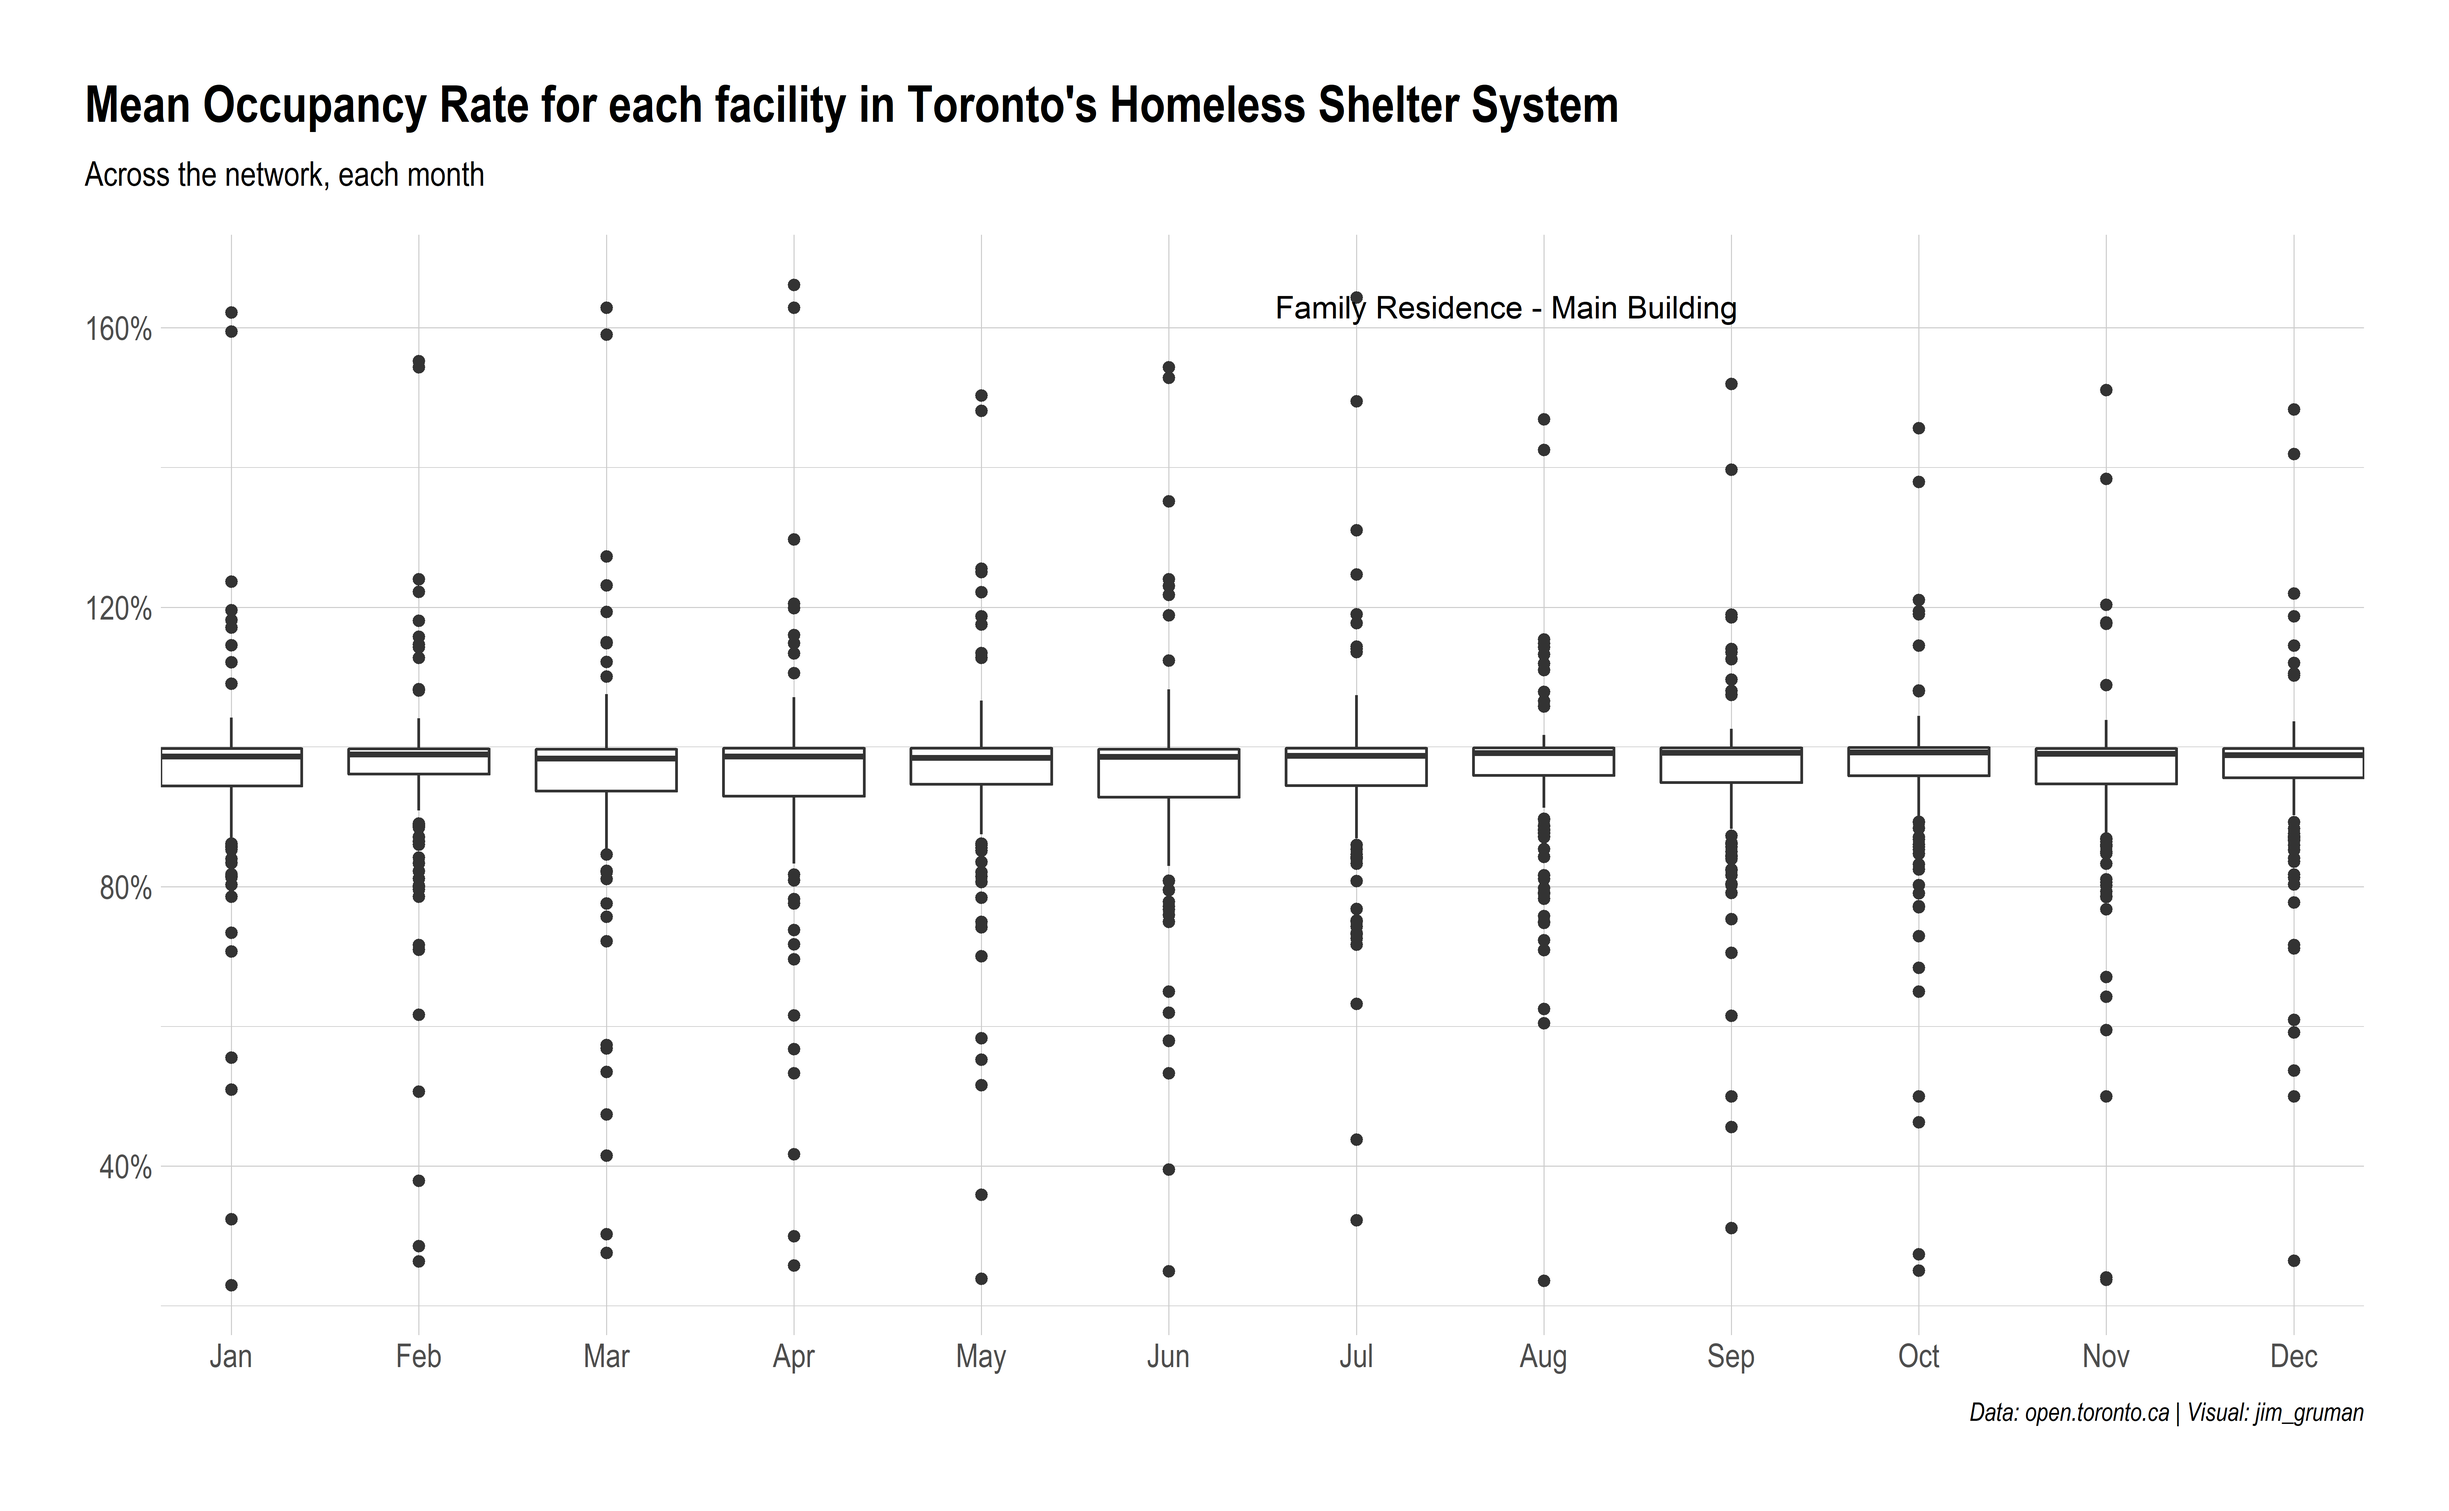
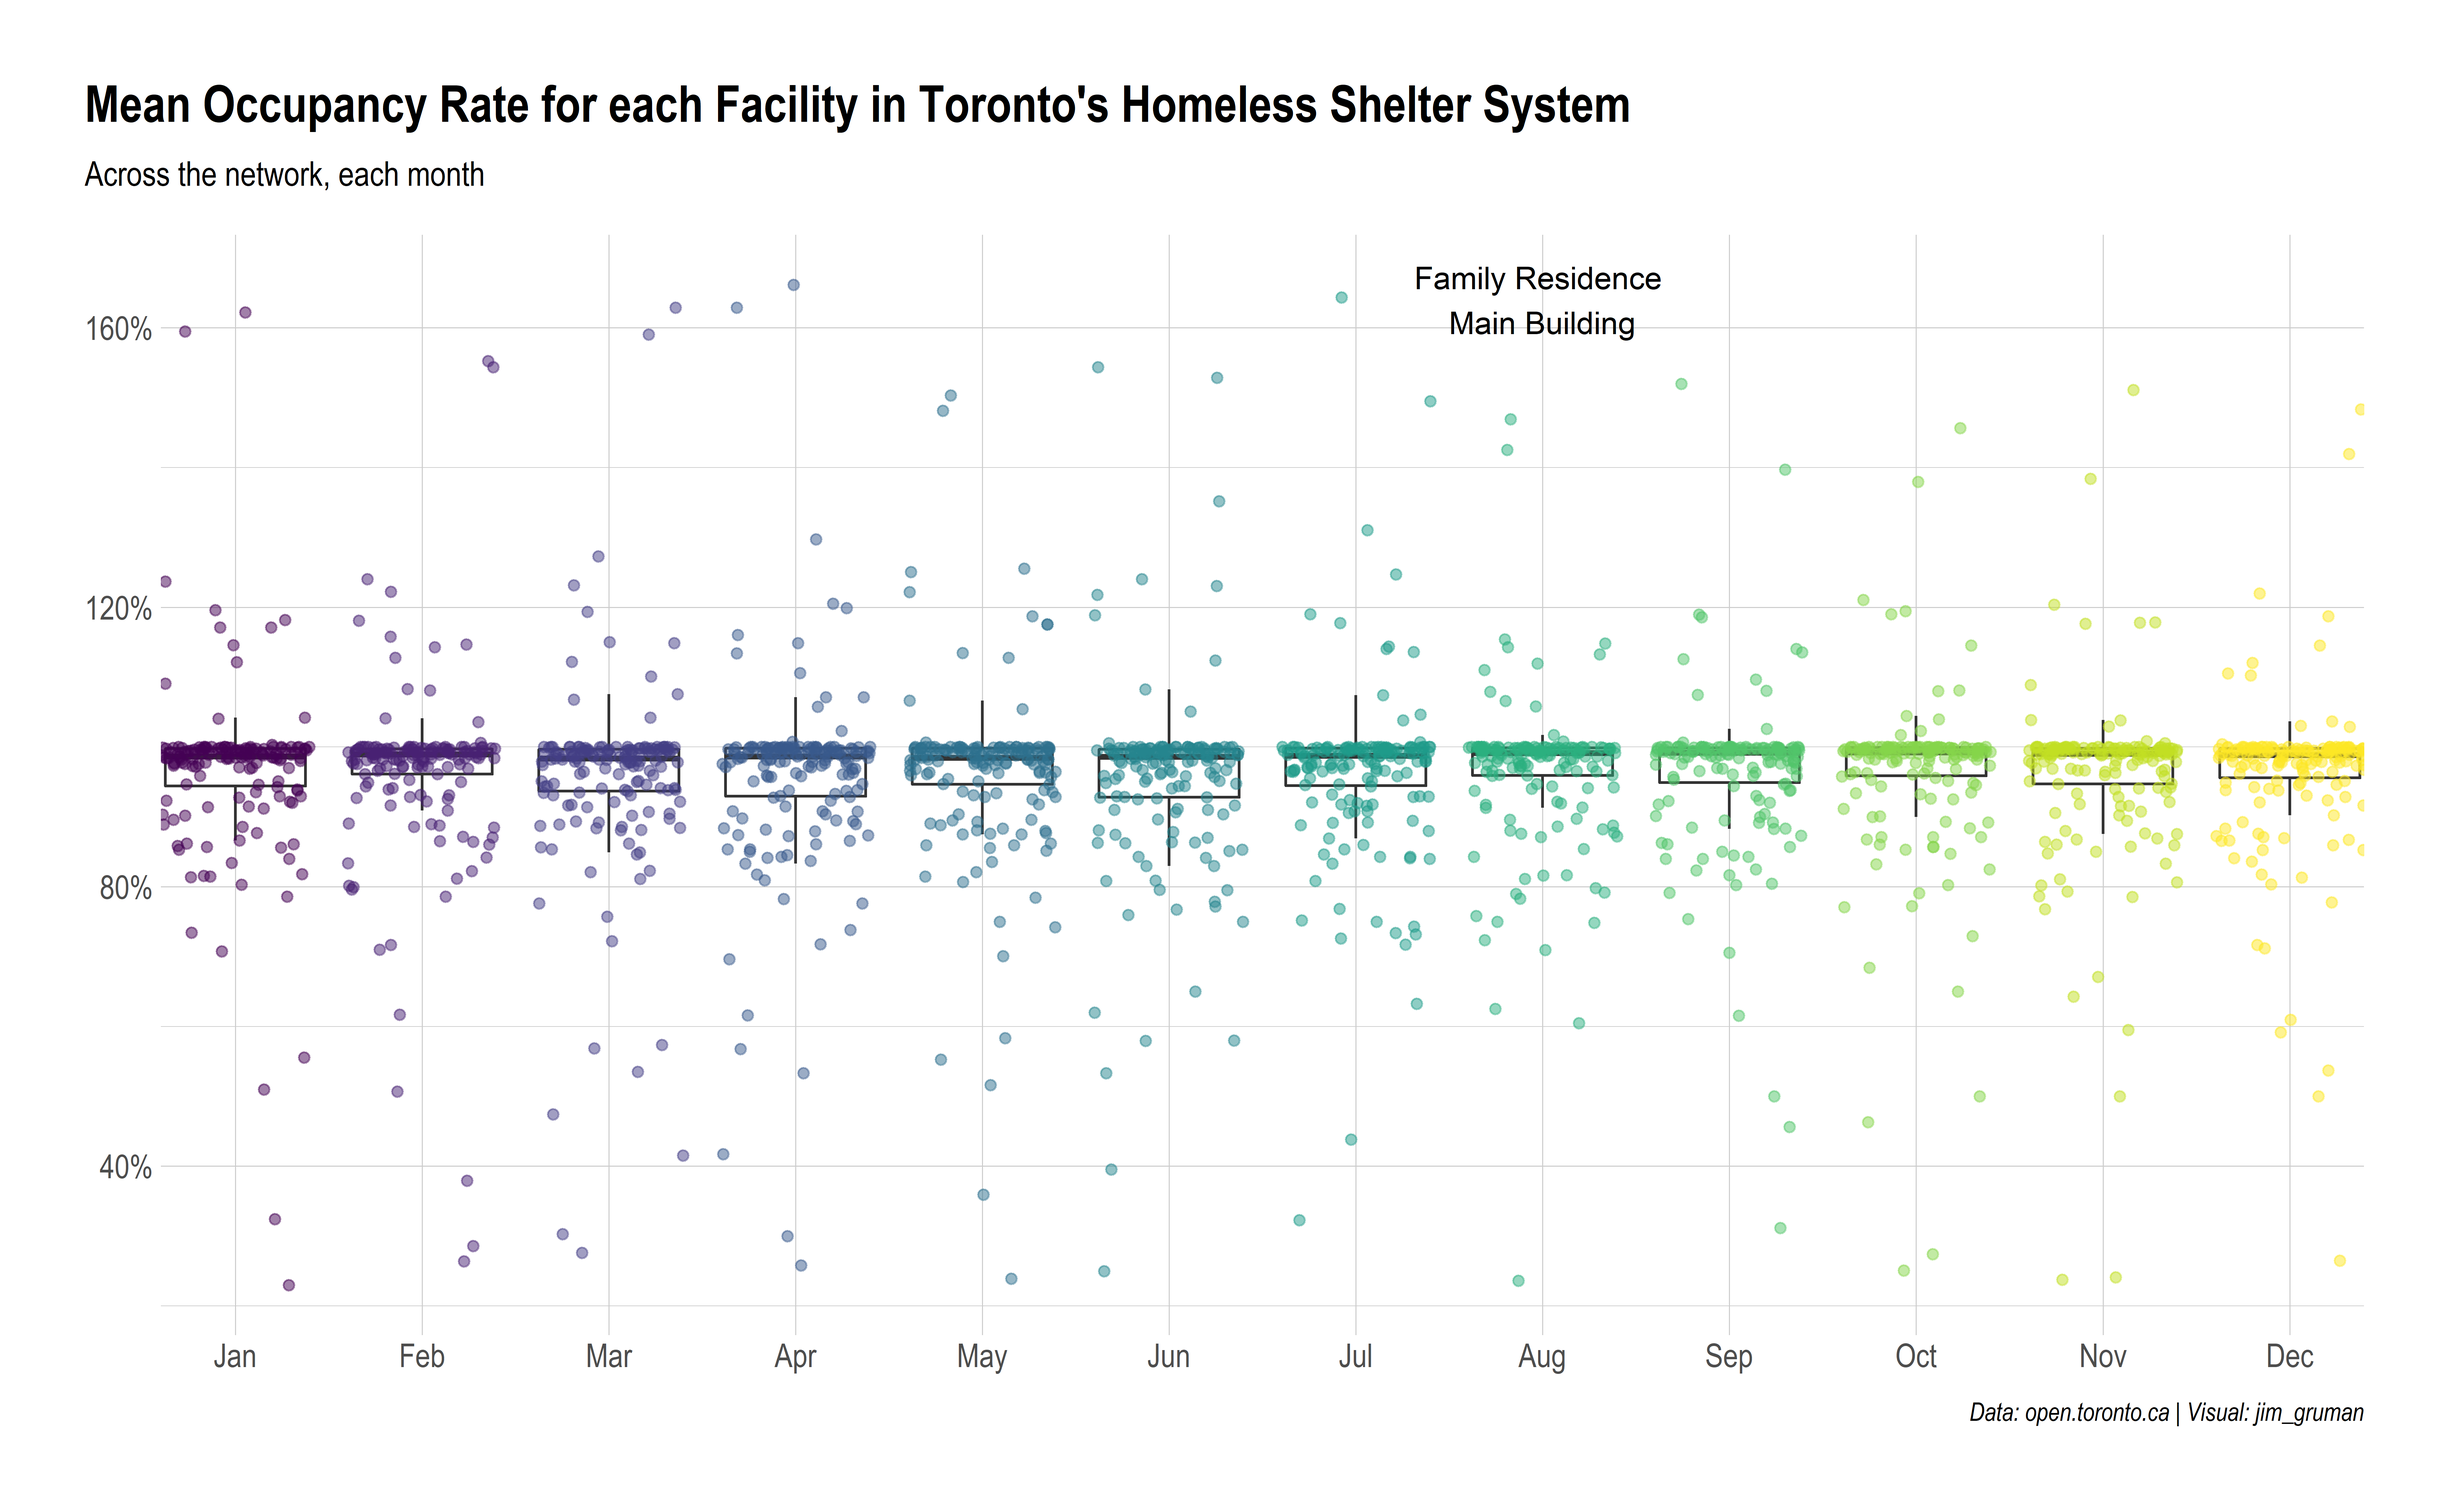
Build site.

diff --git a/docs/TorontoShelters.html b/docs/TorontoShelters.html
@@ -456,16 +456,16 @@ This reproducible <a href="http://rmarkdown.rstudio.com">R Markdown</a> analysis
 <div class="panel panel-default">
 <div class="panel-heading">
 <p class="panel-title">
-<a data-toggle="collapse" data-parent="#workflowr-checks" href="#strongRepositoryversionstrongahrefhttpsgithubcomopus1993myTidyTuesdaytree641b23149f9926c43f8dcf6ffffbb485dbca17b1targetblank641b231a"> <span class="glyphicon glyphicon-ok text-success" aria-hidden="true"></span> <strong>Repository version:</strong> <a href="https://github.com/opus1993/myTidyTuesday/tree/641b23149f9926c43f8dcf6ffffbb485dbca17b1" target="_blank">641b231</a> </a>
+<a data-toggle="collapse" data-parent="#workflowr-checks" href="#strongRepositoryversionstrongahrefhttpsgithubcomopus1993myTidyTuesdaytreea08334f1316ea03a3d5bef25dc6aa6eadff9925etargetblanka08334fa"> <span class="glyphicon glyphicon-ok text-success" aria-hidden="true"></span> <strong>Repository version:</strong> <a href="https://github.com/opus1993/myTidyTuesday/tree/a08334f1316ea03a3d5bef25dc6aa6eadff9925e" target="_blank">a08334f</a> </a>
 </p>
 </div>
[2 lines of base64/hex data omitted]
 <div class="panel-body">
 <p>
 Great! You are using Git for version control. Tracking code development and connecting the code version to the results is critical for reproducibility.
 </p>
 <p>
-The results in this page were generated with repository version <a href="https://github.com/opus1993/myTidyTuesday/tree/641b23149f9926c43f8dcf6ffffbb485dbca17b1" target="_blank">641b231</a>. See the <em>Past versions</em> tab to see a history of the changes made to the R Markdown and HTML files.
+The results in this page were generated with repository version <a href="https://github.com/opus1993/myTidyTuesday/tree/a08334f1316ea03a3d5bef25dc6aa6eadff9925e" target="_blank">a08334f</a>. See the <em>Past versions</em> tab to see a history of the changes made to the R Markdown and HTML files.
 </p>
 <p>
 Note that you need to be careful to ensure that all relevant files for the analysis have been committed to Git prior to generating the results (you can use <code>wflow_publish</code> or <code>wflow_git_commit</code>). workflowr only checks the R Markdown file, but you know if there are other scripts or data files that it depends on. Below is the status of the Git repository when the results were generated:
@@ -523,6 +523,40 @@ Message
 </tr>
 </thead>
 <tbody>
+<tr>
+<td>
+Rmd
+</td>
+<td>
+<a href="https://github.com/opus1993/myTidyTuesday/blob/a08334f1316ea03a3d5bef25dc6aa6eadff9925e/analysis/TorontoShelters.Rmd" target="_blank">a08334f</a>
+</td>
+<td>
+opus1993
+</td>
+<td>
+2020-12-02
+</td>
+<td>
+wflow_publish(“analysis/TorontoShelters.Rmd”)
+</td>
+</tr>
+<tr>
+<td>
+html
+</td>
+<td>
+<a href="https://rawcdn.githack.com/opus1993/myTidyTuesday/fb3d449a0f1974469da5f25874811664cb21e0a8/docs/TorontoShelters.html" target="_blank">fb3d449</a>
+</td>
+<td>
+opus1993
+</td>
+<td>
+2020-12-02
+</td>
+<td>
+Build site.
+</td>
+</tr>
 <tr>
 <td>
 Rmd
@@ -793,16 +827,17 @@ $ capacity            &lt;dbl&gt; 16, 17, 63, 70, 60, 160, 150, 28, 0, 40, NA, 0
   filter(year != &quot;2017&quot;, avg_occupancy &gt; 0) %&gt;%
   mutate(mean_rate = avg_occupancy / avg_cap) %&gt;%
   ggplot(aes(month, mean_rate, group = month)) +
-  geom_boxplot() +
+  geom_boxplot(outlier.alpha = 0.001) +
+  geom_jitter(aes(color = month), alpha = 0.5, show.legend = FALSE) +
   scale_y_continuous(labels = scales::percent_format(accuracy = 1)) +
   scale_x_discrete(expand = c(0, 0)) +
   annotate(&quot;text&quot;,
-    x = 7.8,
-    y = 1.63,
-    label = &quot;Family Residence - Main Building&quot;
+    x = 8,
+    y = 1.64,
+    label = &quot;Family Residence \nMain Building&quot;
   ) +
   labs(
-    title = &quot;Mean Occupancy Rate for each facility in Toronto&#39;s Homeless Shelter System&quot;,
+    title = &quot;Mean Occupancy Rate for each Facility in Toronto&#39;s Homeless Shelter System&quot;,
     subtitle = &quot;Across the network, each month&quot;,
     y = NULL,
     x = NULL,
@@ -813,7 +848,7 @@ $ capacity            &lt;dbl&gt; 16, 17, 63, 70, 60, 160, 150, 28, 0, 40, NA, 0
     legend.background = element_rect(color = &quot;white&quot;)
   )</code></pre>
 <p><img src="figure/TorontoShelters.Rmd/unnamed-chunk-9-1.png" width="3600" style="display: block; margin: auto;" /></p>
-<p>Some facilities are nearly always over capacity every month.</p>
+<p>Some facilities are nearly always over capacity every month. Many report exactly 100% occupancy every month.</p>
 <p>How many facilities are managed by each organization?</p>
 <pre class="r"><code>shelters %&gt;%
   select(organization_name, facility_name) %&gt;%
@@ -986,7 +1021,7 @@ $ capacity            &lt;dbl&gt; 16, 17, 63, 70, 60, 160, 150, 28, 0, 40, NA, 0
   )</code></pre>
 <p><img src="figure/TorontoShelters.Rmd/unnamed-chunk-15-1.png" width="3600" style="display: block; margin: auto;" /></p>
 <p>Lets build a model of Over-Capacity events at each facility with features for the weekday, month, temperature, precipitation, and the two level org identifying the city shelters to make some inferences about what might be drivers of overcrowding.</p>
-<p>Setting the breakpoint for over capacity at 0.999 yields a set that is largely balanced between response classes.</p>
+<p>Setting the breakpoint for over capacity at 0.999 could be argued because every shelter should have 1 empty bed for newcomers. It yields a data set that is largely balanced between response classes.</p>
 <pre class="r"><code>shelter_df &lt;- shelterWeather %&gt;%
   mutate(over_cap = factor(if_else(rate &gt; 0.9999, &quot;Yes&quot;, &quot;No&quot;))) %&gt;%
   select(
@@ -1631,8 +1666,8 @@ loaded via a namespace (and not attached):
  [94] grid_4.0.3         readxl_1.3.1       git2r_0.27.1      
  [97] webshot_0.5.2      reprex_0.3.0       digest_0.6.27     
 [100] R.cache_0.14.0     httpuv_1.5.4       R.utils_2.10.1    
-[103] munsell_0.5.0      GPfit_1.0-8        viridisLite_0.3.0 
-[106] kableExtra_1.3.1  </code></pre>
+[103] munsell_0.5.0      GPfit_1.0-8        kableExtra_1.3.1  
+[106] viridisLite_0.3.0 </code></pre>
 </div>
 </div>
 
